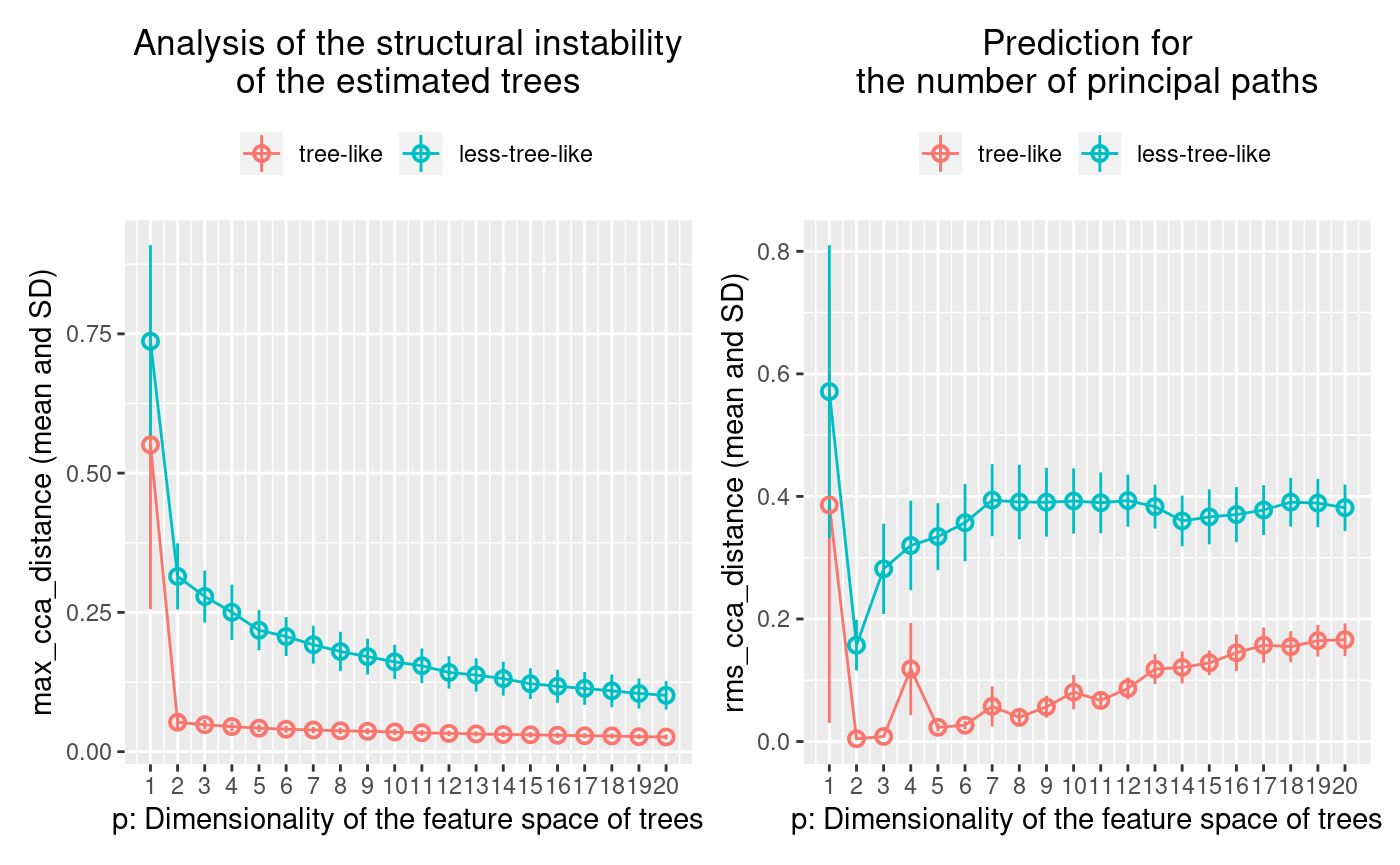
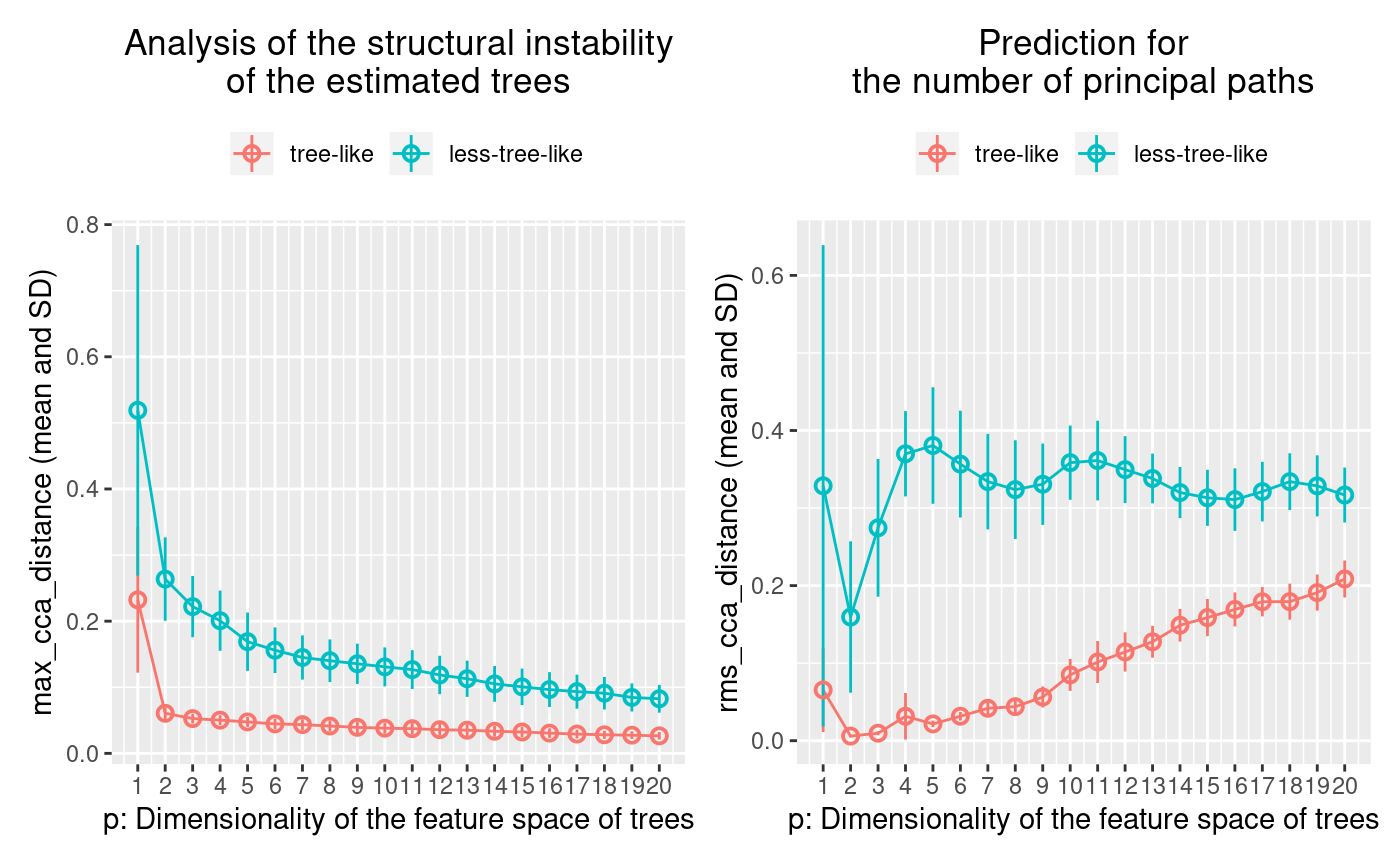
Update documents

diff --git a/docs/1.0.0/articles/treefit.html b/docs/1.0.0/articles/treefit.html
@@ -146,58 +146,60 @@ Figure 2. A scatter plot of noisy toy data generated by Treefit
 <p>Let us estimate the goodness-of-fit between tree models and the first toy data. This can be done by using <code><a href="../reference/treefit.html">treefit::treefit()</a></code> as follows. The <code>name</code> parameter is optional but we should specify it, if possible. Because it’s useful to identify the estimation.</p>
 <div class="sourceCode" id="cb3"><pre class="sourceCode r"><code class="sourceCode r"><a class="sourceLine" id="cb3-1" title="1">fit.tree_like &lt;-<span class="st"> </span>treefit<span class="op">::</span><span class="kw"><a href="https://rdrr.io/pkg/treefit/man/treefit.html">treefit</a></span>(<span class="kw"><a href="https://rdrr.io/r/base/list.html">list</a></span>(<span class="dt">expression=</span>star.tree_like),</a>
 <a class="sourceLine" id="cb3-2" title="2">                                  <span class="dt">name=</span><span class="st">"tree-like"</span>)</a>
-<a class="sourceLine" id="cb3-3" title="3">fit.tree_like</a></code></pre></div>
+<a class="sourceLine" id="cb3-3" title="3"><span class="co"># Save the analytsis result to use other tutorials.</span></a>
+<a class="sourceLine" id="cb3-4" title="4"><span class="kw"><a href="https://rdrr.io/r/base/readRDS.html">saveRDS</a></span>(fit.tree_like, <span class="st">"fit.tree_like.rds"</span>)</a>
+<a class="sourceLine" id="cb3-5" title="5">fit.tree_like</a></code></pre></div>
 <pre><code>## $name
 ## [1] "tree-like"
 ## 
 ## $max_cca_distance
 ##     p       mean standard_deviation
-## 1   1 0.55075748        0.295152585
-## 2   2 0.05282841        0.011250033
-## 3   3 0.04836375        0.008326639
-## 4   4 0.04498072        0.007764938
-## 5   5 0.04215453        0.007021882
-## 6   6 0.04028631        0.006404281
-## 7   7 0.03889834        0.005861562
-## 8   8 0.03746658        0.005826251
-## 9   9 0.03654838        0.005560472
-## 10 10 0.03530630        0.005412446
-## 11 11 0.03391219        0.005334934
-## 12 12 0.03279749        0.005027512
-## 13 13 0.03184447        0.004632820
-## 14 14 0.03079164        0.005158985
-## 15 15 0.03032913        0.005089620
-## 16 16 0.02944990        0.004742920
-## 17 17 0.02859885        0.004535915
-## 18 18 0.02821034        0.004726382
-## 19 19 0.02697429        0.004682989
-## 20 20 0.02629895        0.004644076
+## 1   1 0.23223988        0.110142280
+## 2   2 0.06065737        0.008593613
+## 3   3 0.05261444        0.007561001
+## 4   4 0.05028939        0.007465776
+## 5   5 0.04757591        0.007557266
+## 6   6 0.04460978        0.008158594
+## 7   7 0.04351150        0.008119000
+## 8   8 0.04136095        0.008657141
+## 9   9 0.03934998        0.008625837
+## 10 10 0.03808001        0.008393960
+## 11 11 0.03735817        0.008647215
+## 12 12 0.03584887        0.008766875
+## 13 13 0.03507325        0.008860616
+## 14 14 0.03344167        0.008264621
+## 15 15 0.03233179        0.007927167
+## 16 16 0.03066341        0.007293464
+## 17 17 0.02919835        0.006719227
+## 18 18 0.02810828        0.006149340
+## 19 19 0.02753647        0.005891615
+## 20 20 0.02651915        0.005673348
 ## 
 ## $rms_cca_distance
 ##     p        mean standard_deviation
-## 1   1 0.386093094        0.355902505
-## 2   2 0.004445216        0.001347847
-## 3   3 0.008125625        0.002152448
-## 4   4 0.118346203        0.075208736
-## 5   5 0.023179910        0.006409222
-## 6   6 0.026623067        0.006876387
-## 7   7 0.057261099        0.032819509
-## 8   8 0.039431833        0.011493049
-## 9   9 0.056610085        0.017852111
-## 10 10 0.080547118        0.028101564
-## 11 11 0.067021555        0.014906772
-## 12 12 0.086741067        0.017903318
-## 13 13 0.118063153        0.024482119
-## 14 14 0.120893058        0.026177577
-## 15 15 0.128355981        0.020320677
-## 16 16 0.144708908        0.029950960
-## 17 17 0.157279519        0.028757340
-## 18 18 0.154808392        0.025252766
-## 19 19 0.164531609        0.025881230
-## 20 20 0.166017212        0.026683104
+## 1   1 0.065460117        0.054306498
+## 2   2 0.005939397        0.001741833
+## 3   3 0.009657642        0.002703696
+## 4   4 0.031489474        0.030062574
+## 5   5 0.021653831        0.004250795
+## 6   6 0.031555192        0.005615294
+## 7   7 0.041824899        0.008866904
+## 8   8 0.043898634        0.010357759
+## 9   9 0.056319114        0.013515098
+## 10 10 0.084875418        0.020602705
+## 11 11 0.101503614        0.027095739
+## 12 12 0.114459385        0.025262871
+## 13 13 0.127577562        0.020600029
+## 14 14 0.148856999        0.021046266
+## 15 15 0.158739726        0.023970656
+## 16 16 0.169250149        0.021968375
+## 17 17 0.179203330        0.018933869
+## 18 18 0.179367806        0.023253008
+## 19 19 0.191003737        0.023232409
+## 20 20 0.208534397        0.023883427
 ## 
 ## $n_principal_paths_candidates
-## [1]  3  6  9 12 19
+## [1] 3 6
 ## 
 ## attr(,"class")
 ## [1] "treefit"</code></pre>
@@ -216,58 +218,60 @@ Figure 3. The output for the tree-like data shown in Figure 1
 <p>We can analyze the second toy data in the same manner.</p>
 <div class="sourceCode" id="cb6"><pre class="sourceCode r"><code class="sourceCode r"><a class="sourceLine" id="cb6-1" title="1">fit.less_tree_like &lt;-<span class="st"> </span>treefit<span class="op">::</span><span class="kw"><a href="https://rdrr.io/pkg/treefit/man/treefit.html">treefit</a></span>(<span class="kw"><a href="https://rdrr.io/r/base/list.html">list</a></span>(<span class="dt">expression=</span>star.less_tree_like),</a>
 <a class="sourceLine" id="cb6-2" title="2">                                      <span class="dt">name=</span><span class="st">"less-tree-like"</span>)</a>
-<a class="sourceLine" id="cb6-3" title="3">fit.less_tree_like</a></code></pre></div>
+<a class="sourceLine" id="cb6-3" title="3"><span class="co"># Save the analytsis result to use other tutorials.</span></a>
+<a class="sourceLine" id="cb6-4" title="4"><span class="kw"><a href="https://rdrr.io/r/base/readRDS.html">saveRDS</a></span>(fit.less_tree_like, <span class="st">"fit.less_tree_like.rds"</span>)</a>
+<a class="sourceLine" id="cb6-5" title="5">fit.less_tree_like</a></code></pre></div>
 <pre><code>## $name
 ## [1] "less-tree-like"
 ## 
 ## $max_cca_distance
-##     p      mean standard_deviation
-## 1   1 0.7367661         0.17251185
-## 2   2 0.3145901         0.05940385
-## 3   3 0.2784573         0.04657130
-## 4   4 0.2502306         0.04956849
-## 5   5 0.2179339         0.03610071
-## 6   6 0.2066148         0.03485894
-## 7   7 0.1918900         0.03399583
-## 8   8 0.1797404         0.03513654
-## 9   9 0.1706186         0.03215176
-## 10 10 0.1611807         0.03060067
-## 11 11 0.1541710         0.03105990
-## 12 12 0.1421262         0.02905220
-## 13 13 0.1375927         0.02975507
-## 14 14 0.1309917         0.03043510
-## 15 15 0.1219639         0.02773730
-## 16 16 0.1172879         0.02970911
-## 17 17 0.1134824         0.02943468
-## 18 18 0.1091956         0.02929274
-## 19 19 0.1044447         0.02717214
-## 20 20 0.1010550         0.02554468
+##     p       mean standard_deviation
+## 1   1 0.51898252         0.24998193
+## 2   2 0.26365665         0.06309833
+## 3   3 0.22203387         0.04626733
+## 4   4 0.20070078         0.04553523
+## 5   5 0.16897385         0.04410017
+## 6   6 0.15606605         0.03447745
+## 7   7 0.14505564         0.03343180
+## 8   8 0.14018564         0.03228287
+## 9   9 0.13554575         0.03045610
+## 10 10 0.13088624         0.02945317
+## 11 11 0.12674983         0.02942944
+## 12 12 0.11860693         0.02912421
+## 13 13 0.11287956         0.02736312
+## 14 14 0.10517020         0.02713483
+## 15 15 0.10060805         0.02760623
+## 16 16 0.09652436         0.02641964
+## 17 17 0.09336626         0.02575097
+## 18 18 0.09104287         0.02472501
+## 19 19 0.08460709         0.02127325
+## 20 20 0.08263853         0.02100553
 ## 
 ## $rms_cca_distance
 ##     p      mean standard_deviation
-## 1   1 0.5710967         0.23905355
-## 2   2 0.1570196         0.04121545
-## 3   3 0.2817225         0.07363345
-## 4   4 0.3199340         0.07301458
-## 5   5 0.3344652         0.05445127
-## 6   6 0.3570829         0.06308638
-## 7   7 0.3939299         0.05879377
-## 8   8 0.3908146         0.06101238
-## 9   9 0.3904636         0.05629186
-## 10 10 0.3925027         0.05315770
-## 11 11 0.3896287         0.04959599
-## 12 12 0.3931934         0.04250830
-## 13 13 0.3833093         0.03587312
-## 14 14 0.3599875         0.04136109
-## 15 15 0.3666039         0.04490245
-## 16 16 0.3703423         0.04495045
-## 17 17 0.3777163         0.04063165
-## 18 18 0.3905978         0.03973656
-## 19 19 0.3891108         0.03931917
-## 20 20 0.3815202         0.03796965
+## 1   1 0.3287093         0.31037385
+## 2   2 0.1594372         0.09761476
+## 3   3 0.2744955         0.08875095
+## 4   4 0.3699553         0.05501508
+## 5   5 0.3806449         0.07512335
+## 6   6 0.3566461         0.06887746
+## 7   7 0.3341015         0.06161433
+## 8   8 0.3237529         0.06366091
+## 9   9 0.3307582         0.05248014
+## 10 10 0.3585245         0.04788412
+## 11 11 0.3612705         0.05136175
+## 12 12 0.3495425         0.04319259
+## 13 13 0.3381148         0.03206945
+## 14 14 0.3199753         0.03296708
+## 15 15 0.3132091         0.03621812
+## 16 16 0.3108927         0.04032429
+## 17 17 0.3212186         0.03846984
+## 18 18 0.3340971         0.03659459
+## 19 19 0.3285971         0.03937956
+## 20 20 0.3167971         0.03540092
 ## 
 ## $n_principal_paths_candidates
-## [1]  3 10 12 15
+## [1]  3  9 17
 ## 
 ## attr(,"class")
 ## [1] "treefit"</code></pre>

diff --git a/docs/1.0.0/articles/working-with-seurat.html b/docs/1.0.0/articles/working-with-seurat.html
@@ -225,13 +225,18 @@ Figure 1. The result of PCA for the myoblast dataset
 ## 
 ## attr(,"class")
 ## [1] "treefit"</code></pre>
-<div class="sourceCode" id="cb7"><pre class="sourceCode r"><code class="sourceCode r"><a class="sourceLine" id="cb7-1" title="1">star.tree_like &lt;-<span class="st"> </span>treefit<span class="op">::</span><span class="kw"><a href="https://rdrr.io/pkg/treefit/man/generate_2d_n_arms_star_data.html">generate_2d_n_arms_star_data</a></span>(<span class="dv">500</span>, <span class="dv">3</span>, <span class="fl">0.1</span>)</a>
-<a class="sourceLine" id="cb7-2" title="2">fit.tree_like &lt;-<span class="st"> </span>treefit<span class="op">::</span><span class="kw"><a href="https://rdrr.io/pkg/treefit/man/treefit.html">treefit</a></span>(<span class="kw"><a href="https://rdrr.io/r/base/list.html">list</a></span>(<span class="dt">expression=</span>star.tree_like),</a>
-<a class="sourceLine" id="cb7-3" title="3">                                  <span class="dt">name=</span><span class="st">"tree-like"</span>)</a>
-<a class="sourceLine" id="cb7-4" title="4">star.less_tree_like &lt;-<span class="st"> </span>treefit<span class="op">::</span><span class="kw"><a href="https://rdrr.io/pkg/treefit/man/generate_2d_n_arms_star_data.html">generate_2d_n_arms_star_data</a></span>(<span class="dv">500</span>, <span class="dv">3</span>, <span class="fl">0.8</span>)</a>
-<a class="sourceLine" id="cb7-5" title="5">fit.less_tree_like &lt;-<span class="st"> </span>treefit<span class="op">::</span><span class="kw"><a href="https://rdrr.io/pkg/treefit/man/treefit.html">treefit</a></span>(<span class="kw"><a href="https://rdrr.io/r/base/list.html">list</a></span>(<span class="dt">expression=</span>star.less_tree_like),</a>
-<a class="sourceLine" id="cb7-6" title="6">                                       <span class="dt">name=</span><span class="st">"less-tree-like"</span>)</a>
-<a class="sourceLine" id="cb7-7" title="7"><span class="kw"><a href="https://rdrr.io/r/graphics/plot.html">plot</a></span>(trapnell.fit, fit.tree_like, fit.less_tree_like)</a></code></pre></div>
+<div class="sourceCode" id="cb7"><pre class="sourceCode r"><code class="sourceCode r"><a class="sourceLine" id="cb7-1" title="1"><span class="co"># Load the analytsis results in the getting started tutorial.</span></a>
+<a class="sourceLine" id="cb7-2" title="2"><span class="cf">if</span> (<span class="kw"><a href="https://rdrr.io/r/base/files.html">file.exists</a></span>(<span class="st">"fit.tree_like.rds"</span>)) {</a>
+<a class="sourceLine" id="cb7-3" title="3">  fit.tree_like &lt;-<span class="st"> </span><span class="kw"><a href="https://rdrr.io/r/base/readRDS.html">readRDS</a></span>(<span class="st">"fit.tree_like.rds"</span>)</a>
+<a class="sourceLine" id="cb7-4" title="4">} <span class="cf">else</span> {</a>
+<a class="sourceLine" id="cb7-5" title="5">  fit.tree_like &lt;-<span class="st"> </span><span class="ot">NULL</span></a>
+<a class="sourceLine" id="cb7-6" title="6">}</a>
+<a class="sourceLine" id="cb7-7" title="7"><span class="cf">if</span> (<span class="kw"><a href="https://rdrr.io/r/base/files.html">file.exists</a></span>(<span class="st">"fit.less_tree_like.rds"</span>)) {</a>
+<a class="sourceLine" id="cb7-8" title="8">  fit.less_tree_like &lt;-<span class="st"> </span><span class="kw"><a href="https://rdrr.io/r/base/readRDS.html">readRDS</a></span>(<span class="st">"fit.less_tree_like.rds"</span>)</a>
+<a class="sourceLine" id="cb7-9" title="9">} <span class="cf">else</span> {</a>
+<a class="sourceLine" id="cb7-10" title="10">  fit.less_tree_like &lt;-<span class="st"> </span><span class="ot">NULL</span></a>
+<a class="sourceLine" id="cb7-11" title="11">}</a>
+<a class="sourceLine" id="cb7-12" title="12"><span class="kw"><a href="https://rdrr.io/r/graphics/plot.html">plot</a></span>(trapnell.fit, fit.tree_like, fit.less_tree_like)</a></code></pre></div>
 <div class="figure">
 <img src="working-with-seurat_files/figure-html/plot-1.png" alt="Figure 2. Summary of the Treefit analysis results" width="700"><p class="caption">
 Figure 2. Summary of the Treefit analysis results
